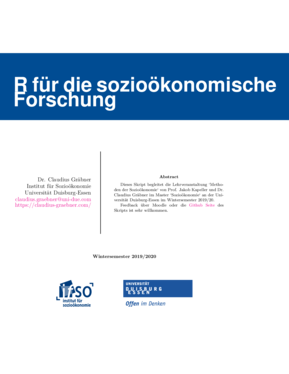
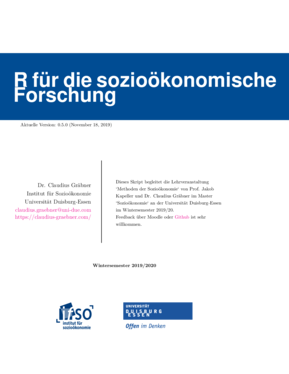
Fix typo on title

diff --git a/figures/title_page.tex b/figures/title_page.tex
@@ -2,7 +2,7 @@
 
 \usepackage{booktabs}
 \usepackage{amsthm, amssymb, mathrsfs}
-\usepackage{xcolor}
+\usepackage{xcolor, changepage}
 \usepackage{setspace}
 \usepackage{hyperref}
 \hypersetup{
@@ -30,14 +30,14 @@ angle=0,
 opacity=1.0,
 contents={
 \begin{tikzpicture}[remember picture,overlay]
- \path [fill=DueMain] (-0.5\paperwidth,5) rectangle (0.5\paperwidth,10);  
+ \path [fill=DueMain] (-0.5\paperwidth,5) rectangle (0.5\paperwidth,10);
 \end{tikzpicture}
 }
 }
 
-\makeatletter                       
-\def\printauthor{%                  
-    {\large \@author}}              
+\makeatletter
+\def\printauthor{%
+    {\large \@author}}
 \makeatother
 \author{%
     Dr. Claudius Gräbner \\
@@ -53,14 +53,14 @@ contents={
 \begin{document}
 \begin{titlepage}
 \BgThispage
-\newgeometry{left=1cm,right=4cm}
+\newgeometry{top=3.0cm,left=1cm,right=4cm}
 \vspace*{2cm}
 \noindent
+\onehalfspacing
 \textcolor{white}{\bigsf R für die \mbox{sozioökonomische} Forschung}
-\vspace*{3.0cm}\par
-%\vspace*{1.0cm}\par
-% Aktuelle Version: 0.5.0 (\today)\\
-%\vspace*{2.0cm}\par
+\vspace*{1.2cm}\par
+Aktuelle Version: 0.5.0 (\today)\\
+\vspace*{2.0cm}\par
 \noindent
 \begin{minipage}{0.35\linewidth}
     \begin{flushright}
@@ -74,11 +74,17 @@ contents={
 %
 \begin{minipage}{0.6\linewidth}
 \vspace{5pt}
-    \begin{abstract} 
-Dieses Skript begleitet die Lehrveranstaltung `Methoden der Sozioökonomie` von Prof. Jakob Kapeller und Dr. Claudius Gräbner im Master `Sozioökonomie` an der Universität Duisburg-Essen im Wintersemester 2019/20.
+\begin{adjustwidth}{25pt}{25pt}
+\raggedright
+Dieses Skript begleitet die Lehrveranstaltung `Methoden der Sozioökonomie` von
+Prof. Jakob Kapeller und Dr. Claudius Gräbner im Master `Sozioökonomie` an der
+Universität Duisburg-Essen im Wintersemester 2019/20.
 
-Feedback über Moodle oder die \href{https://github.com/graebnerc/RforSocioEcon}{Github Seite} des Skripts ist sehr willkommen.
-    \end{abstract}
+Feedback über Moodle oder
+\href{https://github.com/graebnerc/RforSocioEcon}{Github} ist
+sehr willkommen.
+\end{adjustwidth}
+
 \end{minipage}
 
 \vspace{0.25cm}

diff --git a/title.tex b/title.tex
@@ -29,8 +29,8 @@ Dieses Skript begleitet die Lehrveranstaltung `Methoden der Sozioökonomie` von
 Prof. Jakob Kapeller und Dr. Claudius Gräbner im Master `Sozioökonomie` an der
 Universität Duisburg-Essen im Wintersemester 2019/20.
 
-Feedback über Moodle oder die
-\href{https://github.com/graebnerc/RforSocioEcon}{Github Seite} des Skripts ist
+Feedback über Moodle oder
+\href{https://github.com/graebnerc/RforSocioEcon}{Github} ist
 sehr willkommen.
 \end{adjustwidth}
 
